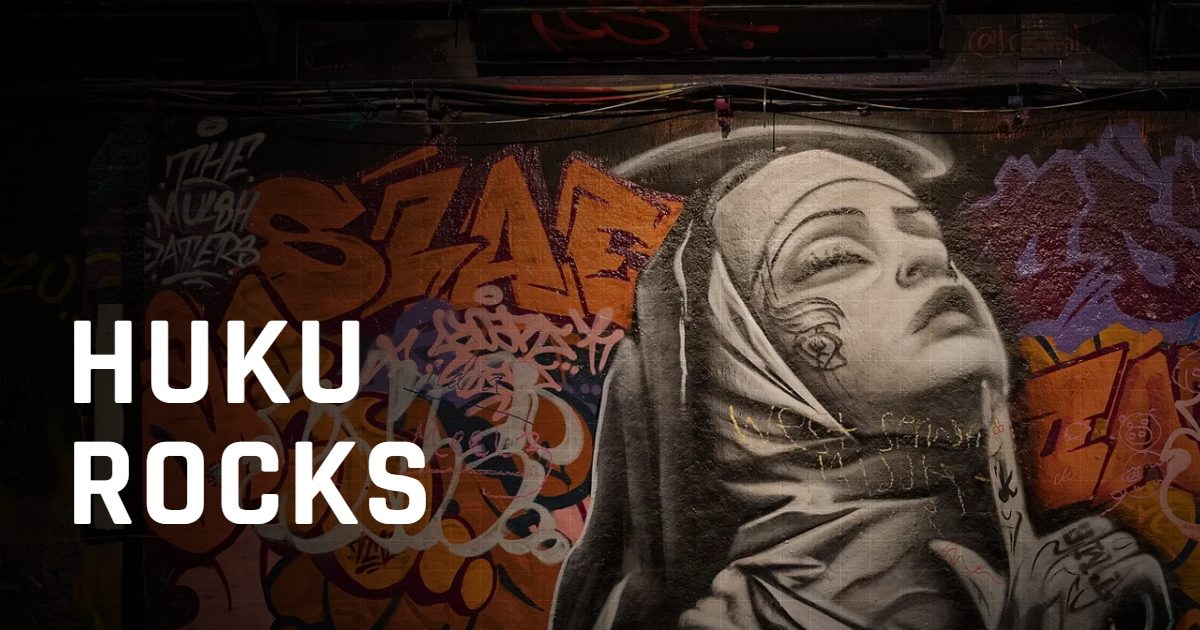
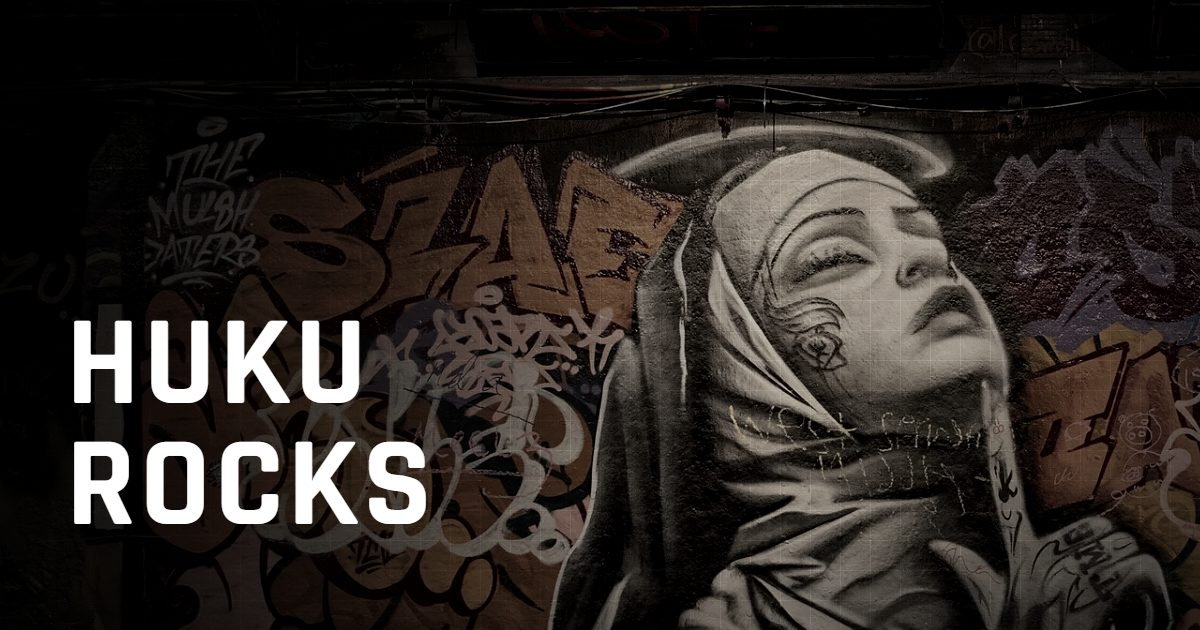
style: matte color grade on hero background and OG image

diff --git a/style.css b/style.css
@@ -42,7 +42,7 @@ body {
   width: 100%;
   height: 100%;
   object-fit: cover;
-  filter: saturate(1.05);
+  filter: saturate(0.35) sepia(0.15) contrast(1.25) brightness(0.8);
   z-index: 0;
 }
 
